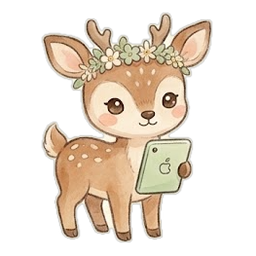
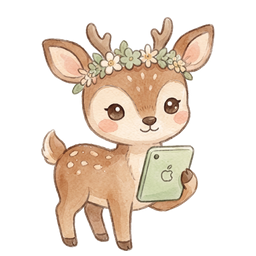
Add mood faces and a Copy button on chat code boxes
- Critters show a worried face when they need you (including a waiting May I?) and a sleepy one when napping
- 32 mood pictures in assets/critters/moods, made with app/mood.py; Clover's normal face fixed
- Code boxes in chat get a Copy button on the desk and phone pages

Changed region(s): [[0.1562, 0.0312, 0.8438, 1.0]]

diff --git a/index.html b/index.html
@@ -547,6 +547,10 @@
   .row.me .bubble a { color: inherit; }
   .row.me .bubble .md code { background: rgba(255,255,255,.2); }
   .bubble pre.code { white-space: pre-wrap; background: var(--card); }
+  .code-box { position: relative; }
+  .code-box pre.code { padding-right: 64px; }
+  .copy-code { position: absolute; top: 6px; right: 6px; font: inherit; font-size: 12px; font-weight: 700; padding: 2px 10px; border-radius: 8px; border: 2px solid var(--line-soft); background: var(--card); color: var(--ink); cursor: pointer; }
+  .copy-code:hover, .copy-code:focus-visible { border-color: var(--line); }
   .typing-bubble { display: inline-flex; padding: 14px 16px; }
   .typing-bubble .dots i { background: var(--moss); }
   .who-sub { font-size: 12px; color: var(--muted); font-weight: 700; margin-left: 12px; }
@@ -806,6 +810,7 @@ darkMedia.addEventListener('change', applyTheme);
 const modelName = id => (MODELS.find(m => m[0] === (id || '')) || MODELS[0])[1];
 let busy = new Set();
 let perms = new Map();
+let moods = new Set(); // mood pictures that exist, e.g. "forest-fox-needs"
 let view = 'floor';
 try { view = localStorage.getItem('agentOffice.view') || 'floor'; } catch (e) {}
 let drawer = { id: null, tab: 'chat' };
@@ -867,8 +872,16 @@ function quietHTML() {
         <button class="btn small" data-action="close-project" data-id="${p.id}">Close Project</button></li>`; }).join('')}</ul>`
       : '<p class="muted">Every cubicle is busy right now. Check back when someone finishes.</p>'}</div>`;
 }
-const critterImg = (w, cls = 'critter', alt = true) => w?.critter
-  ? `<img class="${cls}" src="/assets/critters/${esc(w.critter)}.png" alt="${alt ? `${esc(w.name)} the ${esc(animalOf(w))}` : ''}">` : '';
+const critterImg = (w, cls = 'critter', alt = true, mood = '') => w?.critter
+  ? `<img class="${cls}" src="${critterSrc(w, mood)}" alt="${alt ? `${esc(w.name)} the ${esc(animalOf(w))}` : ''}">` : '';
+// The mood picture when one exists in assets/critters/moods, else the normal one.
+const critterSrc = (w, mood) => moods.has(`${w.critter}-${mood}`)
+  ? `/assets/critters/moods/${esc(w.critter)}-${mood}.png` : `/assets/critters/${esc(w.critter)}.png`;
+// How a critter at its desk looks: asking for you, or napping. A May I? wins (the critter is still mid-turn
+// while it waits); otherwise busy always looks normal.
+const moodOf = (p, asking) => asking ? 'needs' : busy.has(p.id) ? ''
+  : ['needs', 'blocked'].includes(p.status) ? 'needs'
+  : ['out', 'home'].includes(p.status) ? 'sleepy' : '';
 const titleCase = t => String(t || '').replace(/\b\w/g, c => c.toUpperCase());
 const animalOf = w => titleCase(w.animal);
 // Hide file-section references like "(§13)" on screen; the text itself keeps them.
@@ -924,12 +937,23 @@ function renameWorker(w, name, wait = 500) {
 }
 
 /* ---------- Markdown + diffs ---------- */
+// Copy a chat code box. navigator.clipboard needs https or localhost, so the phone (over Tailscale) uses the old way.
+async function copyCode(btn) {
+  const text = btn.parentElement.querySelector('pre').textContent;
+  try { await navigator.clipboard.writeText(text); }
+  catch {
+    const ta = Object.assign(document.createElement('textarea'), { value: text });
+    ta.style.cssText = 'position:fixed;opacity:0'; document.body.append(ta); ta.select();
+    document.execCommand('copy'); ta.remove();
+  }
+  btn.textContent = 'Copied!'; clearTimeout(btn.t); btn.t = setTimeout(() => { btn.textContent = 'Copy'; }, 1500);
+}
 function md(s) {
   return String(s).split('```').map((part, i) => {
     if (i % 2) {
       const nl = part.indexOf('\n');
       const code = nl >= 0 && /^[\w+#.-]*$/.test(part.slice(0, nl).trim()) ? part.slice(nl + 1) : part;
-      return `<pre class="code">${esc(code.replace(/\n$/, ''))}</pre>`;
+      return `<div class="code-box"><pre class="code">${esc(code.replace(/\n$/, ''))}</pre><button type="button" class="copy-code" data-action="copy-code" aria-label="Copy code">Copy</button></div>`;
     }
     const h = esc(part.replace(/^\n+|\n+$/g, ''))
       .replace(/`([^`\n]+)`/g, '<code>$1</code>')
@@ -1151,8 +1175,8 @@ function cubeHTML(p) {
   <article class="cube s-${p.status} ${busy.has(p.id) ? 'busy' : ''} ${asking ? 'asking' : ''}" data-action="open" data-id="${p.id}" style="${plateVars(p)}">
     <div class="wall"><span class="plate">${esc(p.name)}</span></div>
     ${p.unread ? '<span class="unread-dot" title="New reply"></span>' : ''}
-    <div class="scene">${critterImg(w)}${seatsOf(p).slice(0, 2).map((m, i) =>
-      `<img class="mate-pic ${i ? 'right' : 'left'} ${busy.has(m.id) ? 'busy' : ''}" src="/assets/critters/${esc(workerOf(m).critter)}.png" alt="">`).join('')}<span class="say ${sayCls} ${['break', 'out', 'home'].includes(p.status) && !busy.has(p.id) && !asking ? 'thought' : ''}">${esc(say)}</span></div>
+    <div class="scene">${critterImg(w, 'critter', true, moodOf(p, asking))}${seatsOf(p).slice(0, 2).map((m, i) =>
+      `<img class="mate-pic ${i ? 'right' : 'left'} ${busy.has(m.id) ? 'busy' : ''}" src="${critterSrc(workerOf(m), moodOf(m, askingCount(m.id)))}" alt="">`).join('')}<span class="say ${sayCls} ${['break', 'out', 'home'].includes(p.status) && !busy.has(p.id) && !asking ? 'thought' : ''}">${esc(say)}</span></div>
     <div class="desk"><span class="desk-name">${esc(w.name)}</span></div>
     <div class="info">
       <div class="pills"><span class="pill" style="${statusVars(p.status)}">${s.label}</span>${longShift(p)}</div>
@@ -2359,6 +2383,7 @@ function connect() {
       pageBuild ||= ev.build;
       office = ev.office;
       guardLog = ev.guardLog || [];
+      if (ev.moods) moods = new Set(ev.moods);
       applyTheme();
       fetchUsage();
       busy = new Set(ev.busy);
@@ -2485,6 +2510,7 @@ document.addEventListener('click', async e => {
     case 'go': return go(el.dataset.v);
     case 'open': return openDrawer(id, t);
     case 'close-drawer': return closeDrawer();
+    case 'copy-code': return copyCode(el);
     case 'tab': {
       drawer.tab = t;
       pastChat = null;

diff --git a/mobile.html b/mobile.html
@@ -81,6 +81,9 @@
   .md { white-space: pre-wrap; }
   .md code { background: var(--code); padding: 1px 5px; border-radius: 5px; font-size: 14px; }
   .row.me .md code { background: rgba(255,255,255,.2); }
+  .code-box { position: relative; }
+  .code-box pre.code { padding-right: 64px; }
+  .copy-code { position: absolute; top: 6px; right: 6px; font: inherit; font-size: 13px; font-weight: 700; padding: 4px 10px; border-radius: 8px; border: 2px solid var(--line-soft); background: var(--paper); color: var(--ink); }
   pre.code { background: var(--card); border-radius: 10px; padding: 8px 10px; overflow-x: auto; margin: 6px 0; font-size: 13px; white-space: pre-wrap; word-break: break-word; }
   .who-sub { font-size: 12px; color: var(--muted); font-weight: 700; margin-left: 10px; }
   .sys { align-self: center; font-size: 13px; color: var(--muted); text-align: center; }
@@ -176,9 +179,20 @@ async function api(method, url, body) {
   if (!r.ok) { toast(d.error || 'Something went wrong.'); throw new Error(d.error); }
   return d;
 }
+// Copy a chat code box. navigator.clipboard needs https or localhost, so the phone (over Tailscale) uses the old way.
+async function copyCode(btn) {
+  const text = btn.parentElement.querySelector('pre').textContent;
+  try { await navigator.clipboard.writeText(text); }
+  catch {
+    const ta = Object.assign(document.createElement('textarea'), { value: text });
+    ta.style.cssText = 'position:fixed;opacity:0'; document.body.append(ta); ta.select();
+    document.execCommand('copy'); ta.remove();
+  }
+  btn.textContent = 'Copied!'; clearTimeout(btn.t); btn.t = setTimeout(() => { btn.textContent = 'Copy'; }, 1500);
+}
 function md(s) {
   return String(s).split('```').map((part, i) => {
-    if (i % 2) { const nl = part.indexOf('\n'); return `<pre class="code">${esc((nl >= 0 && /^[\w+#.-]*$/.test(part.slice(0, nl).trim()) ? part.slice(nl + 1) : part).replace(/\n$/, ''))}</pre>`; }
+    if (i % 2) { const nl = part.indexOf('\n'); return `<div class="code-box"><pre class="code">${esc((nl >= 0 && /^[\w+#.-]*$/.test(part.slice(0, nl).trim()) ? part.slice(nl + 1) : part).replace(/\n$/, ''))}</pre><button type="button" class="copy-code" data-action="copy-code" aria-label="Copy code">Copy</button></div>`; }
     const h = esc(part.replace(/^\n+|\n+$/g, '')).replace(/`([^`\n]+)`/g, '<code>$1</code>').replace(/\*\*([^*\n]+)\*\*/g, '<b>$1</b>')
       .replace(/\[([^\]\n]+)\]\((https?:\/\/[^\s)]+)\)/g, '<a href="$2" target="_blank" rel="noopener">$1</a>').replace(/^#{1,6} (.+)$/gm, '<b>$1</b>');
     return h ? `<div class="md">${h}</div>` : '';
@@ -323,6 +337,7 @@ document.addEventListener('visibilitychange', () => { if (!document.hidden && (!
 document.addEventListener('click', async e => {
   const t = e.target.closest('button');
   if (!t) return;
+  if (t.dataset.action === 'copy-code') return copyCode(t);
   if (t.dataset.open) return openChat(t.dataset.open);
   if (t.hasAttribute('data-back')) { history.back(); return closeChat(); }
   if (t.dataset.perm) {

diff --git a/app/mood.py b/app/mood.py
@@ -1,0 +1,71 @@
+#!/usr/bin/env python3
+"""Turn a Gemini mood picture into an office critter PNG.
+
+  python3 app/mood.py <gemini.jpeg> <critter> <mood>
+  e.g. python3 app/mood.py ~/Downloads/Gemini_x.jpeg forest-fox needs
+
+Cuts away the white background, then scales the critter to match its
+normal picture in assets/critters (same width and feet line), so it does
+not grow or shrink when its mood changes. Saves assets/critters/moods/<critter>-<mood>.png.
+
+Gemini prompt tip: upload the critter's normal picture and add "keep the eyes
+exactly like the original, solid dark round eyes with only small white shine
+dots. No whites of the eyes showing. Show the worry only with the eyebrows and
+mouth." Without it, Gemini tends to add eye whites, which looks off-model.
+"""
+import sys
+from pathlib import Path
+from PIL import Image, ImageChops, ImageDraw, ImageFilter
+
+ROOT = Path(__file__).resolve().parent.parent
+WORK = 512        # cut the background at this size; the final picture is 256
+WHITE = 232       # brighter than this on every channel counts as paper
+
+
+def lower_width(alpha):
+    """Width of the critter's lower 35%: feet, belly and held props, not raised paws or the floating ? or zzz."""
+    l, t, r, b = alpha.getbbox()
+    return alpha.crop((l, t + (b - t) * 13 // 20, r, b)).getbbox(), (l, t, r, b)
+
+
+def cut(src):
+    im = Image.open(src).convert('RGB').resize((WORK, WORK), Image.LANCZOS)
+    light = ImageChops.darker(ImageChops.darker(*im.split()[:2]), im.split()[2])
+    paper = light.point(lambda v: 255 if v >= WHITE else 0)
+    # Only paper that touches the edge is background; the white belly and eye glints stay.
+    for i in range(0, WORK, 4):
+        for xy in ((i, 0), (i, WORK - 1), (0, i), (WORK - 1, i)):
+            if paper.getpixel(xy) == 255:
+                ImageDraw.floodfill(paper, xy, 128)
+    bg = paper.point(lambda v: 255 if v == 128 else 0)
+    alpha = ImageChops.invert(bg)
+    # Soft edge: near the background, lighter pixels fade out instead of leaving a white halo.
+    ring = ImageChops.subtract(bg.filter(ImageFilter.MaxFilter(5)), bg)
+    fade = light.point(lambda v: max(0, min(255, (255 - v) * 4)))
+    alpha = Image.composite(ImageChops.darker(alpha, fade), alpha, ring)
+    im.putalpha(alpha.filter(ImageFilter.GaussianBlur(0.6)))
+    return im
+
+
+def place(im, ref):
+    """Scale and position to match the normal picture's width and feet line."""
+    (rl, _, rr, _), (_, _, _, rb) = lower_width(ref.split()[3])
+    (ml, _, mr, _), (l, t, r, b) = lower_width(im.split()[3])
+    k = (rr - rl) / (mr - ml)
+    im = im.crop((l, t, r, b))
+    im = im.resize((max(1, round(im.width * k)), max(1, round(im.height * k))), Image.LANCZOS)
+    out = Image.new('RGBA', ref.size, (0, 0, 0, 0))
+    left = round((rl + rr) / 2 - ((ml - l) + (mr - l)) / 2 * k)
+    out.alpha_composite(im, (max(0, left), max(0, rb - im.height)))
+    return out
+
+
+if __name__ == '__main__':
+    if len(sys.argv) != 4:
+        sys.exit(__doc__)
+    src, critter, mood = sys.argv[1:]
+    ref = Image.open(ROOT / 'assets/critters' / f'{critter}.png').convert('RGBA')
+    dest = ROOT / 'assets/critters/moods' / f'{critter}-{mood}.png'
+    dest.parent.mkdir(exist_ok=True)
+    place(cut(src), ref).save(dest, optimize=True)
+    print('Saved', dest.relative_to(ROOT))
